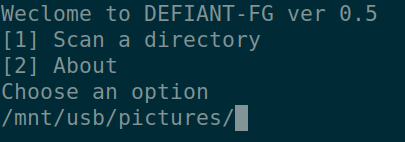
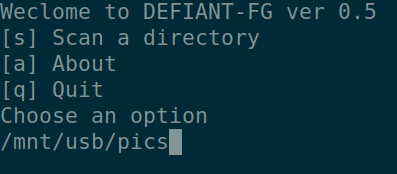
remove man pgs, added linux installer

Changed region(s): [[0.0, 0.0, 0.9673, 0.9296]]

diff --git a/src/main.go b/src/main.go
@@ -25,22 +25,24 @@ const rel_date string = "2023-11-21"
 func main() {
 
 	var path string
-	var choice int
+	var choice string
 
 	// User vebrose printing
 	fmt.Println("Weclome to DEFIANT-FG ver", ver)
-	fmt.Printf("[1] Scan a directory\n[2] About")
+	fmt.Printf("[s] Scan a directory\n[a] About\n[q] Quit")
 	fmt.Println("\nChoose an option")
 	fmt.Scan(&choice)
 
 	// Menu
 	switch choice {
-	case 1:
+	case "s":
 		fmt.Println("Choose directory to scan:")
 		fmt.Scan(&path)
 		scan(path)
-	case 2:
+	case "a":
 		about_info()
+	case "q":
+		os.Exit(0)
 	}
 		
 

diff --git a/README.md b/README.md
@@ -54,7 +54,7 @@ Run to test:
 
 Run the command-line too: 
 
-> fg --dir /path/dir/  
+	fg --dir /path/dir/  
 
 You choose a directory to scan. Let's say it's your pictures folder on an external hard drive located /mnt/hdd/Pictures/ 
 
